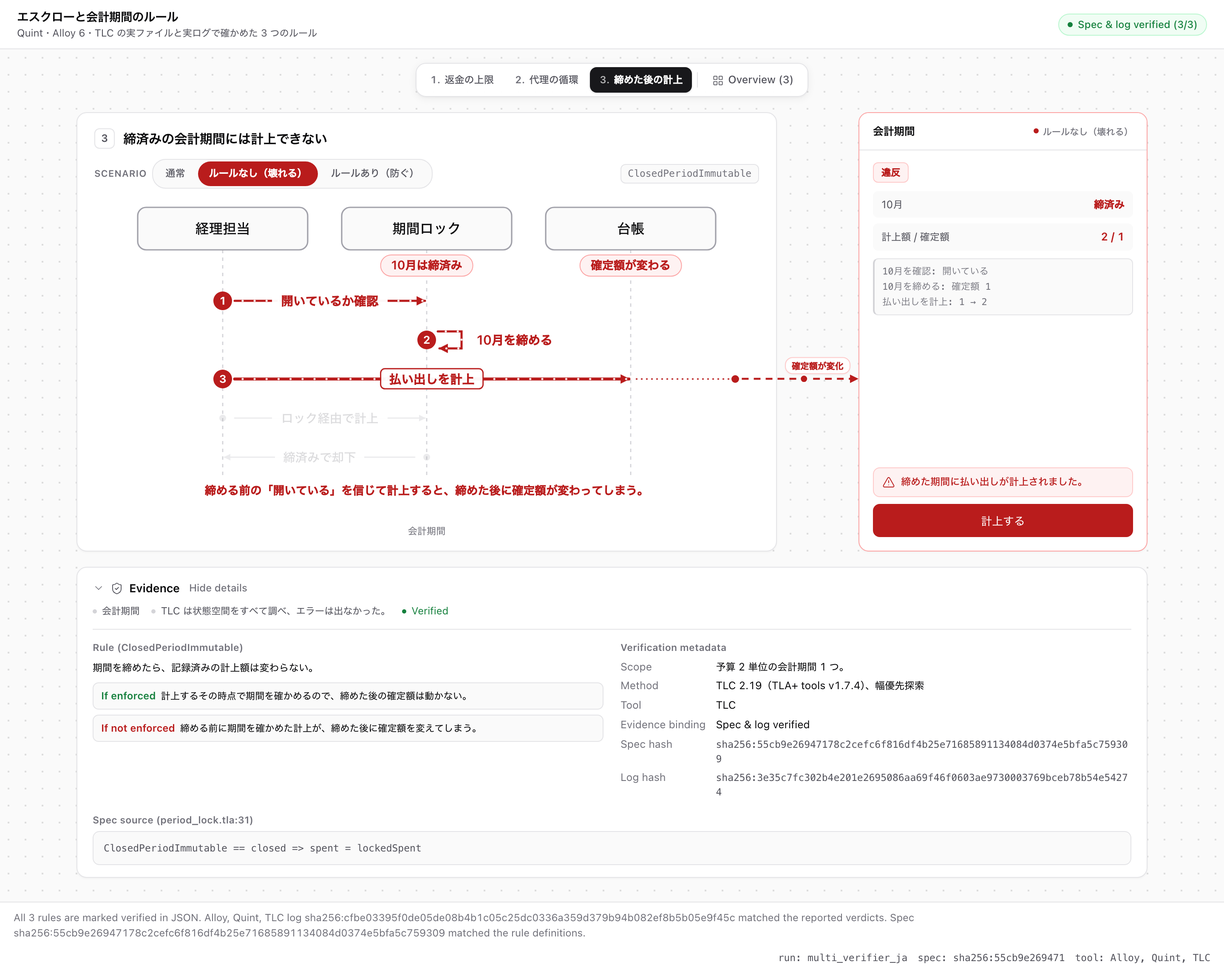
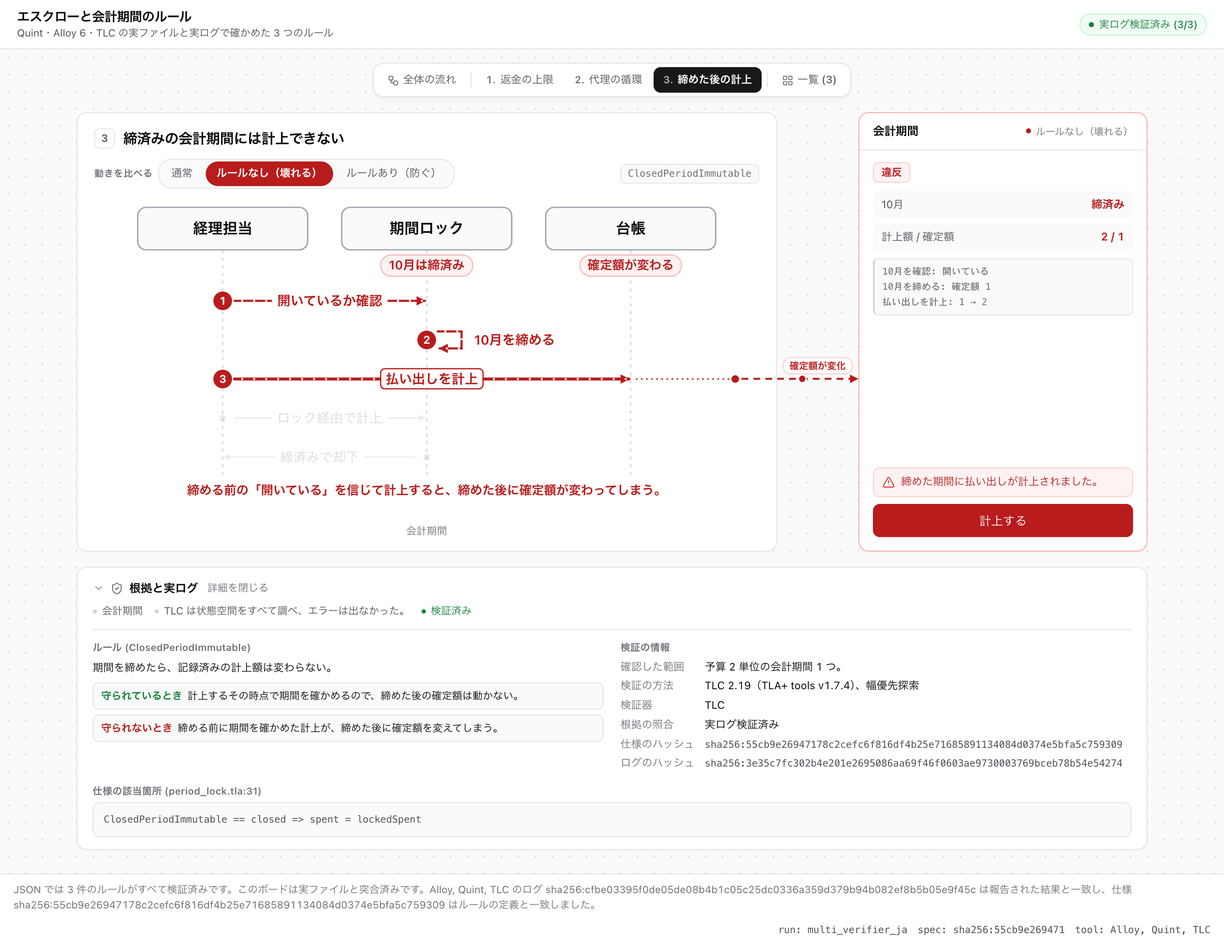
docs: flow map, Japanese UI, renamed Compare and Proof & log; retake screenshots; re-measure benchmarks

diff --git a/BENCHMARK.md b/BENCHMARK.md
@@ -58,12 +58,12 @@ benchmark measures the renderer, not a verification.
 
 | Tier | Rules / modules | Layout | Mode | Badge | HTML (budget) | Payload | bytes/rule | Render ms | Validate ms | Deterministic | Validator |
 |---|---|---|---|---|---|---|---|---|---|---|---|
-| tier1_3rules | 3 / 0 | compact | standalone | sample | 73.4 KB (128 KB) | JSON | 3293 | 2.21 | 29.54 | yes | PASS |
-| tier1b_escrow | 12 / 3 | index | standalone | failed | 117.1 KB (200 KB) | JSON | 3027 | 4.84 | 2.54 | yes | PASS |
-| tier2_20rules | 20 / 4 | index | standalone | sample | 143.2 KB (200 KB) | JSON | 3101 | 4.86 | 15.84 | yes | PASS |
-| tier3_50rules | 50 / 10 | index | standalone | sample | 250.2 KB (350 KB) | JSON | 3370 | 7.97 | 10.89 | yes | PASS |
-| tier4_100rules | 100 / 20 | index | standalone | sample | 123.5 KB (512 KB) | gzip+base64 | 3380 | 31.4 | 20.84 | yes | PASS |
-| embed_20rules | 20 / 4 | index | embed | sample | 143.1 KB (200 KB) | JSON | 3101 | 3.75 | 7.75 | yes | PASS |
+| tier1_3rules | 3 / 0 | compact | standalone | sample | 75 KB (128 KB) | JSON | 3293 | 1.77 | 2.82 | yes | PASS |
+| tier1b_escrow | 12 / 3 | index | standalone | failed | 118.7 KB (200 KB) | JSON | 3027 | 2.96 | 2.94 | yes | PASS |
+| tier2_20rules | 20 / 4 | index | standalone | sample | 144.8 KB (200 KB) | JSON | 3101 | 3.19 | 4.09 | yes | PASS |
+| tier3_50rules | 50 / 10 | index | standalone | sample | 251.7 KB (350 KB) | JSON | 3370 | 8.92 | 6.48 | yes | PASS |
+| tier4_100rules | 100 / 20 | index | standalone | sample | 125 KB (512 KB) | gzip+base64 | 3380 | 32.57 | 13.93 | yes | PASS |
+| embed_20rules | 20 / 4 | index | embed | sample | 144.7 KB (200 KB) | JSON | 3101 | 3.63 | 7.87 | yes | PASS |
 
 `bytes/rule` is the raw JSON size of the rules divided by their count. Every tier passes the
 validator with zero warnings.
@@ -72,17 +72,17 @@ validator with zero warnings.
 
 | Tier | Viewport | DOMContentLoaded ms | App ready ms | DOM nodes | JS heap MB | Views swept | Min SVG text units (px) | SVG text overflow | Connector overlap px | Clipped labels | Page overflow px | Toolbar rows | Index open at load | Errors (console / page) | External requests | CJK chars |
 |---|---|---|---|---|---|---|---|---|---|---|---|---|---|---|---|---|
-| tier1_3rules | 1280x800 | 189.3 | 189.1 | 200 | 2.01 | 9 | 13.9 (13.9) | 0 | 0 | 0 | 0 | 1 | true | 0 / 0 | 0 | 0 |
-| tier1_3rules | 1440x900 | 26.8 | 26.7 | 200 | 2.01 | 9 | 13.9 (13.9) | 0 | 0 | 0 | 0 | 1 | true | 0 / 0 | 0 | 0 |
-| tier1b_escrow | 1280x800 | 65.5 | 53.8 | 313 | 2.06 | 36 | 13.1 (9.9) | 0 | 0 | 0 | 0 | 1 | true | 0 / 0 | 0 | 0 |
-| tier1b_escrow | 1440x900 | 46.1 | 45.8 | 313 | 2.06 | 36 | 13.1 (11.4) | 0 | 0 | 0 | 0 | 1 | true | 0 / 0 | 0 | 0 |
-| tier2_20rules | 1280x800 | 46.6 | 46.4 | 365 | 2.19 | 60 | 13.2 (10) | 0 | 0 | 0 | 0 | 1 | true | 0 / 0 | 0 | 0 |
-| tier2_20rules | 1440x900 | 36.2 | 36.1 | 365 | 2.19 | 60 | 13.2 (11.5) | 0 | 0 | 0 | 0 | 1 | true | 0 / 0 | 0 | 0 |
-| tier3_50rules | 1280x800 | 47.1 | 46.8 | 549 | 2.33 | 150 | 13 (9.8) | 0 | 0 | 0 | 0 | 1 | true | 0 / 0 | 0 | 0 |
-| tier3_50rules | 1440x900 | 36.4 | 35.9 | 549 | 2.33 | 150 | 13 (11.3) | 0 | 0 | 0 | 0 | 1 | true | 0 / 0 | 0 | 0 |
-| tier4_100rules | 1280x800 | 11 | 43 | 858 | 2.4 | 300 | 13 (9.8) | 0 | 0 | 0 | 0 | 1 | true | 0 / 0 | 0 | 0 |
-| tier4_100rules | 1440x900 | 9.6 | 36.8 | 858 | 2.42 | 300 | 13 (11.3) | 0 | 0 | 0 | 0 | 1 | true | 0 / 0 | 0 | 0 |
-| embed_20rules | 900x700 | 34.3 | 33.8 | 358 | 2.18 | 60 | 13.2 (13.2) | 0 | 0 | 0 | 0 | 1 | false | 0 / 0 | 0 | 0 |
+| tier1_3rules | 1280x800 | 58.1 | 57.9 | 200 | 2.02 | 9 | 13.9 (13.9) | 0 | 0 | 0 | 0 | 1 | true | 0 / 0 | 0 | 0 |
+| tier1_3rules | 1440x900 | 26.1 | 25.9 | 200 | 2.02 | 9 | 13.9 (13.9) | 0 | 0 | 0 | 0 | 1 | true | 0 / 0 | 0 | 0 |
+| tier1b_escrow | 1280x800 | 36.4 | 36.1 | 313 | 2.07 | 36 | 13.1 (9.9) | 0 | 0 | 0 | 0 | 1 | true | 0 / 0 | 0 | 0 |
+| tier1b_escrow | 1440x900 | 42.2 | 42 | 313 | 2.07 | 36 | 13.1 (11.4) | 0 | 0 | 0 | 0 | 1 | true | 0 / 0 | 0 | 0 |
+| tier2_20rules | 1280x800 | 47.4 | 47.2 | 365 | 2.2 | 60 | 13.2 (10) | 0 | 0 | 0 | 0 | 1 | true | 0 / 0 | 0 | 0 |
+| tier2_20rules | 1440x900 | 35.5 | 35.3 | 365 | 2.2 | 60 | 13.2 (11.5) | 0 | 0 | 0 | 0 | 1 | true | 0 / 0 | 0 | 0 |
+| tier3_50rules | 1280x800 | 37.1 | 36.8 | 549 | 2.34 | 150 | 13 (9.8) | 0 | 0 | 0 | 0 | 1 | true | 0 / 0 | 0 | 0 |
+| tier3_50rules | 1440x900 | 34.4 | 34.2 | 549 | 2.34 | 150 | 13 (11.3) | 0 | 0 | 0 | 0 | 1 | true | 0 / 0 | 0 | 0 |
+| tier4_100rules | 1280x800 | 10.2 | 56.6 | 858 | 2.42 | 300 | 13 (9.8) | 0 | 0 | 0 | 0 | 1 | true | 0 / 0 | 0 | 0 |
+| tier4_100rules | 1440x900 | 9.3 | 38.1 | 858 | 2.39 | 300 | 13 (11.3) | 0 | 0 | 0 | 0 | 1 | true | 0 / 0 | 0 | 0 |
+| embed_20rules | 900x700 | 32.9 | 32.6 | 358 | 2.19 | 60 | 13.2 (13.2) | 0 | 0 | 0 | 0 | 1 | false | 0 / 0 | 0 | 0 |
 
 "Index open at load" is `true` for the compact tier because the flag is simply unused there.
 
@@ -100,17 +100,17 @@ Pages built only for these checks (`out/bench/check_*.html`).
 
 | Tier | Viewport | switch rule | toggle normal/bug/fixed | toggle Evidence | toggle Overview | switch module | filter failed only | search keyword |
 |---|---|---|---|---|---|---|---|---|
-| tier1_3rules | 1280x800 | 3 (frame 16) | 2.2 (frame 10.2) | 1.8 (frame 10.3) | 2.7 (frame 18.3) | n/a | n/a | n/a |
-| tier1_3rules | 1440x900 | 1.6 (frame 6.6) | 1.6 (frame 12.6) | 1.6 (frame 13.3) | 2.6 (frame 16.4) | n/a | n/a | n/a |
-| tier1b_escrow | 1280x800 | 2 (frame 12.7) | 2.1 (frame 14.2) | 2.4 (frame 10.7) | 2 (frame 12.6) | 2.3 (frame 8.3) | 1.9 (frame 13.7) | 1.9 (frame 10.1) |
-| tier1b_escrow | 1440x900 | 2.4 (frame 12.7) | 2.8 (frame 11.3) | 2.2 (frame 13) | 1.7 (frame 11.4) | 3 (frame 11) | 1.9 (frame 12.3) | 2 (frame 12.8) |
-| tier2_20rules | 1280x800 | 3 (frame 11.6) | 4.8 (frame 10.6) | 2.6 (frame 12.2) | 3.1 (frame 12.8) | 4.1 (frame 13.5) | 3.3 (frame 10.8) | 2 (frame 12.4) |
-| tier2_20rules | 1440x900 | 2.2 (frame 11.1) | 2.5 (frame 12.1) | 2.7 (frame 11) | 2.3 (frame 10.3) | 2.2 (frame 11.2) | 2 (frame 10.6) | 2.4 (frame 8.5) |
-| tier3_50rules | 1280x800 | 4.3 (frame 14.2) | 3.7 (frame 8.9) | 2.8 (frame 8.5) | 7.3 (frame 11.5) | 4 (frame 11.8) | 3.6 (frame 11.8) | 2.9 (frame 11.3) |
-| tier3_50rules | 1440x900 | 4.6 (frame 11.8) | 4 (frame 11.4) | 5 (frame 10.9) | 3.1 (frame 14.4) | 2.3 (frame 11.6) | 2 (frame 11.4) | 2.8 (frame 10.2) |
-| tier4_100rules | 1280x800 | 4 (frame 13.6) | 4.9 (frame 9.5) | 4.3 (frame 9.1) | 8.2 (frame 14) | 2.1 (frame 12.5) | 4.7 (frame 11.3) | 2.6 (frame 15.1) |
-| tier4_100rules | 1440x900 | 4.2 (frame 12.4) | 4.9 (frame 12.4) | 3.5 (frame 11.6) | 6 (frame 14) | 2.7 (frame 9.7) | 2.6 (frame 11.7) | 2.5 (frame 11.3) |
-| embed_20rules | 900x700 | 2 (frame 12.2) | 2.1 (frame 11.4) | 2.2 (frame 12.6) | 1.7 (frame 12.7) | 2.5 (frame 12.7) | 2.3 (frame 12.8) | 3.2 (frame 13.4) |
+| tier1_3rules | 1280x800 | 2.8 (frame 11.9) | 2.9 (frame 10.8) | 2.7 (frame 13.5) | 4.1 (frame 13.9) | n/a | n/a | n/a |
+| tier1_3rules | 1440x900 | 1.7 (frame 11.7) | 1.6 (frame 16.3) | 1.8 (frame 12.7) | 3 (frame 14.8) | n/a | n/a | n/a |
+| tier1b_escrow | 1280x800 | 2.1 (frame 15.8) | 2.1 (frame 11) | 2.6 (frame 14) | 1.5 (frame 11.5) | 1.9 (frame 11.8) | 1.8 (frame 11.7) | 1.9 (frame 13) |
+| tier1b_escrow | 1440x900 | 2.1 (frame 13.6) | 2.7 (frame 17.7) | 2 (frame 17.4) | 2.1 (frame 15.2) | 3.3 (frame 13.9) | 1.7 (frame 13.1) | 1.8 (frame 11.8) |
+| tier2_20rules | 1280x800 | 2.3 (frame 13.8) | 2.4 (frame 14.4) | 2.4 (frame 12.3) | 2 (frame 15) | 2.9 (frame 14.1) | 2 (frame 13.3) | 1.9 (frame 13.9) |
+| tier2_20rules | 1440x900 | 2.1 (frame 13.3) | 3.8 (frame 8.3) | 5.3 (frame 9.2) | 2.1 (frame 14) | 2.6 (frame 12) | 2.9 (frame 8.1) | 2 (frame 11.1) |
+| tier3_50rules | 1280x800 | 3 (frame 11.7) | 3.3 (frame 12.7) | 2.8 (frame 5) | 6.9 (frame 11.2) | 2 (frame 10.2) | 1.9 (frame 12.1) | 2.1 (frame 11.2) |
+| tier3_50rules | 1440x900 | 2.6 (frame 10.2) | 3 (frame 8.4) | 2.9 (frame 10.6) | 4 (frame 11.7) | 2.1 (frame 9.3) | 1.9 (frame 7.6) | 2 (frame 10.8) |
+| tier4_100rules | 1280x800 | 4.9 (frame 11.3) | 7.2 (frame 11.6) | 3.6 (frame 12.6) | 8.9 (frame 13.6) | 2 (frame 8.3) | 2.2 (frame 9.4) | 2.9 (frame 8) |
+| tier4_100rules | 1440x900 | 3.7 (frame 9.3) | 4.8 (frame 11.8) | 4.6 (frame 11.9) | 5.8 (frame 12.6) | 4.6 (frame 14.8) | 2.1 (frame 12.2) | 2.6 (frame 7.7) |
+| embed_20rules | 900x700 | 1.6 (frame 13.5) | 2.2 (frame 11.5) | 2.1 (frame 9.7) | 1.6 (frame 7.5) | 1.9 (frame 14.1) | 1.6 (frame 10.8) | 1.7 (frame 12.2) |
 
 ## Screenshots
 
@@ -127,37 +127,57 @@ Pages built only for these checks (`out/bench/check_*.html`).
 | `out/bench/tier4_100rules_failed_overview.png` | 1440x900 | Overview filtered to failed rules |
 | `out/bench/embed_20rules_900.png` | 900x700 | Embed mode: one-row toolbar, index closed, stacked cards |
 
+## Flow map boards (examples 05 and 06)
+
+The tiers above have no `flow`. Examples 05 and 06 do, and open on their flow map. Measured on
+the same machine with the commands in `README.md`, bound to the example 05 specs and logs
+(`--spec` / `--log`).
+
+| Board | Standalone | Embed | Budget |
+|---|---|---|---|
+| 05 multi-verifier (6 rules, 3 stages, 3 journeys) | 130,576 B (127.5 KB) | 130,488 B (127.4 KB) | 128 KB |
+| 06 Japanese (3 rules, 3 stages, 3 journeys, `"lang": "ja"`) | 107,854 B (105.3 KB) | 107,766 B (105.2 KB) | 128 KB |
+
+- **Cost.** The flow code and CSS are written only into boards that have `flow`. Against the
+  previous release (commit `d65cade`), boards without `flow` grow by 1,596-1,612 B, almost all
+  of it the per-language UI text; example 05 grows by 21.2 KB with its flow map.
+- **Click sweep.** `scripts/sweep_figures.py flow` over examples 00-06, standalone and embed, at
+  1440x900 and 900x700: 188 real clicks (every journey, every checkpoint button, every stage
+  rule chip, the way back to Flow, and a chip clicked under active filters on the index layout),
+  0 failures: no stage or label overlap, no text outside a stage, no page overflow, no console
+  errors. The figure sweep (`sweep`) over the same 14 files: 564 views, 0 failures.
+
 ## Analysis
 
 ### What scales well
 
-- **Load.** Every page is interactive in under 55 ms, except the very first page this browser
-  process opened (tier1 at 1280x800: 189 ms in this run, 253 ms in an earlier one), which
-  looks like a cold start. Plain-JSON boards are ready when DOMContentLoaded fires; the gzip
-  board adds about 27-32 ms for `DecompressionStream` and `JSON.parse` (tier4: DOMContentLoaded
-  9.6-11 ms, App ready 36.8-43 ms).
+- **Load.** Every page is interactive in under 60 ms in this run. The slowest is the very first
+  page this browser process opened (tier1 at 1280x800: 57.9 ms here; earlier runs measured
+  189-253 ms for that cold start). Plain-JSON boards are ready when DOMContentLoaded fires; the
+  gzip board adds about 29-46 ms for `DecompressionStream` and `JSON.parse` (tier4:
+  DOMContentLoaded 9.3-10.2 ms, App ready 38.1-56.6 ms).
 - **DOM and memory.** Nodes grow roughly linearly with rules (200 -> 858) and the heap stays at
   2.0-2.4 MB.
 - **Layout.** Across 1,170 swept views (every rule in every state, every viewport) no figure
   text leaves its box, no connector pill touches a card, no label is clipped, the page never
   scrolls sideways and the toolbar stays on one row, including at 900x700 in embed mode.
-- **Latency.** The worst sync median is 8.2 ms (Overview at 100 rules, 1280x800). "frame"
-  values (about 7-18 ms) are dominated by waiting for the next animation frame, not by work.
+- **Latency.** The worst sync median is 8.9 ms (Overview at 100 rules, 1280x800). "frame"
+  values (about 5-18 ms) are dominated by waiting for the next animation frame, not by work.
 
 ### Bottlenecks
 
 1. **Payload dominates file size beyond about 15 rules.** At tier4 the HTML is 37.1 KB payload
-   (gzip + base64), 39.9 KB JS, 34.0 KB CSS and 6.5 KB `<noscript>` text; the compact layout
-   ships 32.2 KB JS and 24.7 KB CSS. The same 100-rule board as plain JSON is 420.8 KB, under
-   the 512 KB limit; 200 rules are 754.9 KB as plain JSON and 182.8 KB with gzip, which is why
+   (gzip + base64), 41.5 KB JS, 34.0 KB CSS and 6.5 KB `<noscript>` text; the compact layout
+   ships 33.8 KB JS and 24.7 KB CSS. The same 100-rule board as plain JSON is 422.3 KB, under
+   the 512 KB limit; 200 rules are 756.5 KB as plain JSON and 184.2 KB with gzip, which is why
    `auto` switches to gzip above 192 KB (covered by a self-test).
 2. **Full re-render of the index.** The index is rebuilt with `innerHTML` on every state
-   change, so its cost is linear in rule count: switch rule and Overview go from about 2-3 ms at
-   20 rules to 4-8 ms at 100. That is fine up to a few hundred rules; above about 1,000 rules
+   change, so its cost is linear in rule count: switch rule and Overview go from about 2 ms at
+   20 rules to 4-9 ms at 100. That is fine up to a few hundred rules; above about 1,000 rules
    the index would need virtualization or keyed updates. This is an extrapolation: 1,000+ rules
    were not measured.
-3. **Node render time is gzip.** tier4 renders in 31.4 ms (22-38 ms in earlier runs) against
-   2.2-8.0 ms for the JSON tiers; most of the difference is `gzipSync` at level 9.
+3. **Node render time is gzip.** tier4 renders in 32.6 ms (22-38 ms in earlier runs) against
+   1.8-8.9 ms for the JSON tiers; most of the difference is `gzipSync` at level 9.
 4. **Small text at 1280 wide.** With the rule index open at 1280x800, the focus figure is drawn
    at about 75% scale, so its smallest text (13 units) is 9.8-10 px on screen. At 1440x900 it
    is 11.3 px or more. A layout that keeps the figure larger at 1280 was not attempted.
@@ -173,8 +193,8 @@ compress far better:
 | Synthetic (tier4, 100 rules) | 3380 | 0.083 |
 
 Projection for 100 rules at hand-written density: about 310 KB raw JSON -> about 55 KB gzip ->
-about 74 KB base64, plus about 86 KB of shell (JS, CSS, `<noscript>` and markup) = about
-**160 KB**, well below 512 KB. This is a projection, not a measurement.
+about 74 KB base64, plus about 88 KB of shell (JS, CSS, `<noscript>` and markup) = about
+**162 KB**, well below 512 KB. This is a projection, not a measurement.
 
 ## Caveats
 

diff --git a/README.md b/README.md
@@ -8,8 +8,8 @@ knowing the spec language, and a validator proves the file is safe to share.
 
 Each rule is drawn as one of three figures, picked to match what the checker proved, with three
 switchable states: **normal**, **bug** (what happens without the rule) and **fixed**. A linked
-screen preview shows what a user would see, and an evidence panel says what was checked, how, and
-within which bounds.
+screen preview shows what a user would see, and a **Proof & log** panel says what was checked, how,
+and within which bounds. An optional flow map shows how the checked parts of a system connect.
 
 | Figure | Draws | Fits |
 |---|---|---|
@@ -25,20 +25,28 @@ their spec files and checker logs, examples 02 and 03 as illustrative sample boa
 | **Alloy `relation`: delegation cycle (Spec & log verified 6/6)** | **TLA+ `sequence`: period-close race (Spec & log verified 6/6)** |
 |---|---|
 | ![Alloy NoCyclicDelegation rule as a relation graph in the bug state, with the delegation_rbac.als excerpt and SHA-256 spec and log hashes](docs/images/01-verified-multi.png) | ![TLC ClosedPeriodImmutable rule as a three-lane sequence diagram in the bug state, with the period_lock.tla excerpt](docs/images/02-sequence-race.png) |
-| **Failed rule with a TLA+ counterexample (12 rules, sample)** | **Japanese board copy, same renderer (Spec & log verified 3/3)** |
-| ![Failed escrow payout rule in the bug state with the full TLA+ counterexample trace and evidence panel](docs/images/03-failed-counterexample.png) | ![Japanese-language board with gate, relation and sequence rules bound to the example 05 specs and logs](docs/images/04-japanese-board.png) |
+| **Failed rule with a TLA+ counterexample (12 rules, sample)** | **Japanese board and UI (`"lang": "ja"`, Spec & log verified 3/3)** |
+| ![Failed escrow payout rule in the bug state with the full TLA+ counterexample trace and Proof & log panel](docs/images/03-failed-counterexample.png) | ![Japanese board with the period-close sequence rule in the bug state and the Japanese Proof & log panel, bound to the example 05 specs and logs](docs/images/04-japanese-board.png) |
 | **Module overview with search and status filters (20 rules)** | **Embed mode (`--mode embed`, 900×700)** |
 | ![20-rule multi-module overview with search and status filters](docs/images/05-overview-20rules.png) | ![Embed mode rendering of the multi-verifier board at a 900x700 viewport](docs/images/06-embed-900.png) |
+| **Flow map: one journey highlighted, with its checkpoint rule** | **Flow map with Japanese UI** |
+| ![Flow map of three stages with the self-approved release journey highlighted, the other stage dimmed, and an Inspect this rule button](docs/images/07-flow-map.png) | ![Japanese flow map with the posting-after-close journey highlighted and a button that opens the checkpoint rule](docs/images/08-flow-map-ja.png) |
 
 - **Zero dependencies.** Node 22 or later. No `npm install`, no CDN, no network at view time.
 - **Deterministic.** The same board and evidence files render to the same bytes.
 - **Evidence binding.** Supply spec files and checker logs to check rule names, file hashes,
-  and reported verdicts. The badge and Evidence panel show which files were checked.
+  and reported verdicts. The badge and Proof & log panel show which files were checked.
 - **Visualization.** You run the checker. proof-canvas renders its results and can compare
   those results with the board JSON.
 - **Scales from 1 to 100+ rules.** Up to 6 rules get a compact pill bar; larger apps get
   modules, a rule index, search, a status filter (All / Failed / Verified / Not checked) and a
   module overview.
+- **Flow map.** An optional `flow` draws 2-6 stages with their rules, labeled arrows between
+  them, and up to 5 journeys. Picking a journey dims the rest and offers a button that opens
+  the rule deciding it in the right state. The map says that arrows show connections and each
+  rule's status comes from its own proof.
+- **English or Japanese UI.** `"lang": "ja"` switches the renderer's own text to Japanese;
+  only the chosen language is written into the HTML.
 - **Embeddable.** All CSS is scoped to the board, nothing uses `100vh`, SVG ids are unique, and
   `--mode embed` drops page-level styles, so a board can sit inside an `<iframe>` or a host page.
 
@@ -61,8 +69,8 @@ in [the proof-canvas skill](skills/proof-canvas/SKILL.md).
 | `examples/02_escrow_payout.board.json` | 12 / 3 | TLA+ / TLC style: 9 verified, 1 failed with a counterexample, 2 not checked |
 | `examples/03_multi_module_20rules.board.json` | 20 / 4 | Index layout, search, filters, module overview |
 | `examples/04_refund_guard/` | 2 / none | Real spec and log from Quint 0.32.0 |
-| `examples/05_multi_verifier/` | 6 / 3 | Native Quint 0.32.0, Alloy 6.2.0, and TLC 2.19 verdicts on one board, with all three figures |
-| `examples/06_japanese_board/` | 3 / none | The same specs and logs with Japanese board copy |
+| `examples/05_multi_verifier/` | 6 / 3 | Native Quint 0.32.0, Alloy 6.2.0, and TLC 2.19 verdicts on one board, with all three figures and a flow map |
+| `examples/06_japanese_board/` | 3 / none | The same specs and logs with Japanese board copy, Japanese UI and a flow map |
 
 Examples 00 through 03 are illustrative and declare `"provenance": "sample"`.
 
@@ -80,7 +88,7 @@ node scripts/validate_board.mjs --in "$example.board.json" --spec "$example.qnt"
   --log "$example.quint.log" out/04_refund_guard.html
 ```
 
-The board shows **Spec & log verified (2/2)**. Open **Evidence** for the exact source and
+The board shows **Spec & log verified (2/2)**. Open **Proof & log** for the exact source and
 line range of each invariant. Repeat `--spec` and `--log` for additional files. Use the
 same set of files on both commands to verify the embedded evidence against disk.
 
@@ -124,16 +132,16 @@ node scripts/validate_board.mjs --in "$example/multi_verifier.board.json" "${fla
   out/05_multi_verifier.html
 ```
 
-The board shows **Spec & log verified (6/6)**. Each **Evidence** card shows the
+The board shows **Spec & log verified (6/6)** and opens on its flow map. Each **Proof & log** card shows the
 rule's checker, log hash, and source excerpt. The footer lists the three checkers
 and the combined log hash. The Quint rules use `gate`, the Alloy rules use `relation`,
 and the TLC period-lock rule uses `sequence`.
 
 The [Japanese board](examples/06_japanese_board/) binds to the same files. Its labels,
-states and evidence text come from the board JSON, so they render in Japanese while the
-renderer's own labels stay in English. Pass the same flags with
+states and evidence text come from the board JSON, and `"lang": "ja"` renders the
+renderer's own labels in Japanese too. Pass the same flags with
 `--in examples/06_japanese_board/multi_verifier_ja.board.json` to get
-**Spec & log verified (3/3)**.
+**実ログ検証済み (3/3)** (Spec & log verified).
 
 ## Install
 
@@ -173,12 +181,12 @@ Apple M3, Node 24, headless Chromium 159. Full method, every viewport and the an
 
 | Rules / modules | Layout | HTML | Payload | Render | App ready | DOM nodes | Worst interaction (sync) | Layout defects in sweep | Errors |
 |---|---|---|---|---|---|---|---|---|---|
-| 3 / none | compact | 73.4 KB | JSON | 2.2 ms | 27 ms* | 200 | 3.0 ms | 0 | 0 |
-| 12 / 3 | index | 117.1 KB | JSON | 4.8 ms | 46-54 ms | 313 | 3.0 ms | 0 | 0 |
-| 20 / 4 | index | 143.2 KB | JSON | 4.9 ms | 36-46 ms | 365 | 4.8 ms | 0 | 0 |
-| 50 / 10 | index | 250.2 KB | JSON | 8.0 ms | 36-47 ms | 549 | 7.3 ms | 0 | 0 |
-| 100 / 20 | index | 123.5 KB | gzip | 31.4 ms | 37-43 ms | 858 | 8.2 ms | 0 | 0 |
-| 20 / 4, embed at 900x700 | index | 143.1 KB | JSON | 3.8 ms | 34 ms | 358 | 3.2 ms | 0 | 0 |
+| 3 / none | compact | 75.0 KB | JSON | 1.8 ms | 26 ms* | 200 | 4.1 ms | 0 | 0 |
+| 12 / 3 | index | 118.7 KB | JSON | 3.0 ms | 36-42 ms | 313 | 3.3 ms | 0 | 0 |
+| 20 / 4 | index | 144.8 KB | JSON | 3.2 ms | 35-47 ms | 365 | 5.3 ms | 0 | 0 |
+| 50 / 10 | index | 251.7 KB | JSON | 8.9 ms | 34-37 ms | 549 | 6.9 ms | 0 | 0 |
+| 100 / 20 | index | 125.0 KB | gzip | 32.6 ms | 38-57 ms | 858 | 8.9 ms | 0 | 0 |
+| 20 / 4, embed at 900x700 | index | 144.7 KB | JSON | 3.6 ms | 33 ms | 358 | 2.2 ms | 0 | 0 |
 
 "Layout defects in sweep" counts, over every rule in every state, figure text leaving its box,
 connector pills overlapping a card, clipped labels and horizontal page overflow.
@@ -221,13 +229,15 @@ scripts/
   validate_board.mjs  gates: size, structure, offline, svg-markers, embed-safety, provenance, sync, binding
   evidence.mjs        spec hashes, source excerpts, and checker log verdicts
   schema.mjs          board schema, layout and provenance rules
+  flow.mjs            flow map geometry and markup (shared with the browser)
+  i18n.mjs            English and Japanese UI text
   figure.mjs          gate / sequence / relation geometry, text fitting and SVG builders (shared with the browser)
   payload.mjs         JSON / gzip + base64 payload codec
   synth_board.mjs     deterministic synthetic boards for stress tests
   test_validator.mjs  self-tests
   bench_scale.mjs     scale benchmark driver
   bench_browser.py    headless Chromium metrics (development only)
-  sweep_figures.py    headless Chromium layout sweep and screenshots (development only)
+  sweep_figures.py    headless Chromium layout sweep, flow click sweep and screenshots (development only)
 examples/
   00-03               sample boards
   04_refund_guard/    Quint spec and log

diff --git a/skills/proof-canvas/SKILL.md b/skills/proof-canvas/SKILL.md
@@ -36,8 +36,8 @@ Start from an example:
 | `examples/02_escrow_payout.board.json` | 12 | 3 | Index layout, TLA+ / TLC style: 9 verified, 1 failed with a counterexample, 2 not checked |
 | `examples/03_multi_module_20rules.board.json` | 20 | 4 | Index layout with search, filters and the module overview |
 | `examples/04_refund_guard/` | 2 | none | Spec and real log from Quint 0.32.0 |
-| `examples/05_multi_verifier/` | 6 | 3 | Native Quint 0.32.0, Alloy 6.2.0, and TLC 2.19 verdicts on one board; `gate`, `relation` and `sequence` figures |
-| `examples/06_japanese_board/` | 3 | none | The 05 specs and logs with Japanese board copy, one rule per figure kind |
+| `examples/05_multi_verifier/` | 6 | 3 | Native Quint 0.32.0, Alloy 6.2.0, and TLC 2.19 verdicts on one board; `gate`, `relation` and `sequence` figures; a three-stage flow map that opens first |
+| `examples/06_japanese_board/` | 3 | none | The 05 specs and logs with `"lang": "ja"`: Japanese board copy and UI, one rule per figure kind, a flow map built from `ruleIds` |
 
 Examples 00 through 03 are illustrative and declare `"provenance": "sample"`: their statuses and
 counterexamples were written by hand, and no checker was run.
@@ -117,6 +117,10 @@ validator warning (typos such as `counterExample` are caught), and top-level key
 | `generatedAt` | string | ISO 8601 timestamp. |
 | `provenance` | optional `verified \| mixed \| sample \| unverified` | Declared provenance. Use `sample` for illustrative data. See section 5. |
 | `provenanceNote` | optional string | Adds a board note after the computed footer note. |
+| `lang` | optional `en \| ja` | Language of the renderer's UI text and `<html lang>`; default `en`. Only that language ships. |
+| `labels` | optional object | `{ moduleSingular?, modulePlural?, overview? }` rename "module(s)" (e.g. `stage` / `stages`) and the hub button (default `Flow` with a flow map, else `Overview`). Warns above 24 characters. |
+| `defaultView` | optional `rule \| flow` | The first screen; default `rule`. `flow` requires `flow`. |
+| `flow` | optional object | A system flow map across modules (see **`flow`** below). |
 | `run` | object | The checker run (below). |
 | `modules` | optional array | `{ id, title, summary? }`. When present, every rule needs a `moduleId`. |
 | `rules` | array, 1..N | One entry per checked rule (below). |
@@ -170,7 +174,7 @@ relation label collides with another element, shorten it or reorder `nodes`.
 
 **`states.<normal | bug | fixed>`**
 
-One rule is one card. The **Scenario** switch on that card moves the diagram and the screen
+One rule is one card. The **Compare** switch on that card moves the diagram and the screen
 preview together, so put the whole comparison inside one rule: `normal` is the everyday case,
 `bug` is what happens with the rule switched off, and `fixed` is the rule doing its job. Never
 split one rule into two rules or modules ("with rule" and "without rule"): the reader then
@@ -216,6 +220,22 @@ By figure kind (chip `tone` is `neutral \| good \| bad`):
 | `sourceQuote` | optional string | Verbatim text of the source the rule comes from. |
 | `counterexample` | optional string | Checker trace. On a failed or not-checked rule it shows under **Counterexample** ("No counterexample recorded" when absent). On a verified rule, use it for the trace of the rule switched off (for example a killed mutant); it shows under **Counterexample without this rule**. When a verified rule has none, the section is left out. |
 
+**`flow`** (optional)
+
+Stages are cards listing their rules as clickable chips with verifier status; labeled arrows
+join them; a journey highlights one path and links to the rule that decides it. A fixed caption
+says arrows show connections and each rule's status comes from its own proof, so the map never
+claims the connections were verified. Say in `note` how the checkers ran.
+
+| Field | Type | Notes |
+|---|---|---|
+| `title`, `note` | optional string | Map heading (default "System flow") and a note after the caption. |
+| `steps` | array, 2..6 | `{ id, label, summary?, moduleId?, ruleIds? }`: `ruleIds`, or every rule of `moduleId` (with both, the rules must be in that module); at least one rule. 2-3 stages draw in one row, 4-6 in two. |
+| `edges` | array, 1..9 | `{ id, from, to, label, kind? }` between two different steps, one per direction. `kind`: `normal` (solid), `bypass` (dashed), `handoff` (dotted). |
+| `journeys` | optional array, 1..5 | `{ id, label, tone, summary, stepIds, edgeIds?, checkpointRuleId?, checkpointFocus? }`. `tone`: `normal`, `bug`, `safe`. Both ends of each `edgeIds` edge must be in `stepIds`. `checkpointRuleId` adds a button that opens that rule in `checkpointFocus` (needs `checkpointRuleId`; default by tone: bug → `bug`, safe → `fixed`, else `normal`). |
+
+Ids are unique `[a-zA-Z0-9_-]` strings. Text that does not fit or labels that collide warn.
+
 ## 2. Render
 
 ```bash
@@ -227,7 +247,9 @@ node "$PLUGIN_ROOT/scripts/render_board.mjs" --in board.json --out board.html
   layout: a floating pill bar (`1. ... | 2. ... | Overview`). Anything larger gets the *index*
   layout: module selector, rule index, search (`/`), a status filter (All / Failed / Verified /
   Not checked, with counts) and a module overview with numbered rule chips colored by status.
-- **Evidence.** Repeat `--spec <path>` and `--log <path>` to bind files. See section 5.
+  A board with `flow` replaces the index toolbar's Overview button with **Flow** and puts a
+  **Flow** pill first in the compact bar; the flow code is left out of boards without `flow`.
+- **Proof & log.** Repeat `--spec <path>` and `--log <path>` to bind files. See section 5.
 - **Payload.** `auto` embeds readable JSON up to 192 KB and gzip + base64 above that, decoded
   by the browser's built-in `DecompressionStream`. The decoded board may not exceed 4 MiB.
 - **Embedding.** `--mode embed` drops page-level CSS (`html`, `body`) so the board can sit inside
@@ -236,7 +258,7 @@ node "$PLUGIN_ROOT/scripts/render_board.mjs" --in board.json --out board.html
   never uses `100vh`). All CSS is scoped to `.pc-root`.
 - **Warnings.** The renderer prints validator warnings (long labels, text that cannot fit, unknown
   keys) to stderr and still renders; errors stop it with a non-zero exit code.
-- **Keys.** `o` overview, `e` evidence; compact: `1`-`9` jump to a rule; index: `/` search,
+- **Keys.** `o` the flow map (index layout with `flow`) or the overview, `e` proof & log; compact: `1`-`9` jump to a rule; index: `/` search,
   `j` / `k` next / previous rule, `Esc` clears the search.
 
 ## 3. Validate (required)
@@ -277,6 +299,10 @@ rules in one click.
 For a development checkout with `uv`, `scripts/sweep_figures.py sweep <board.html>` shows every
 rule in every state in headless Chromium and fails on figure text outside its box, colliding
 labels, clipped text, page overflow, console errors, or external requests.
+`scripts/sweep_figures.py flow <board.html>` real-clicks a flow map: every journey, its
+checkpoint button (it must land on the exact `checkpointRuleId` and `checkpointFocus`), every
+rule chip, the way back to Flow, and a chip clicked while filters hide its rule. It fails on
+overlapping stages or labels, text outside a stage, page overflow, or console errors.
 
 ## 5. Honesty rules
 
